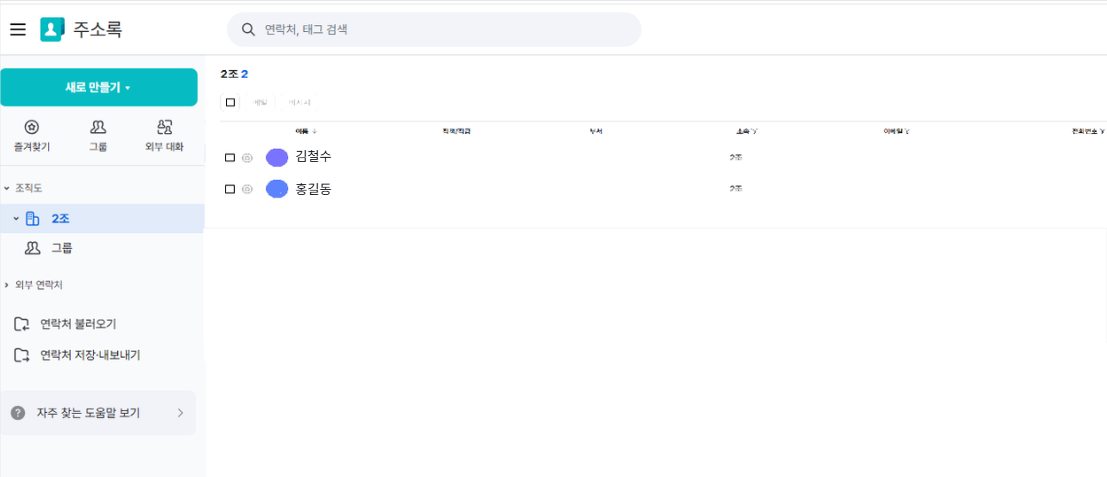
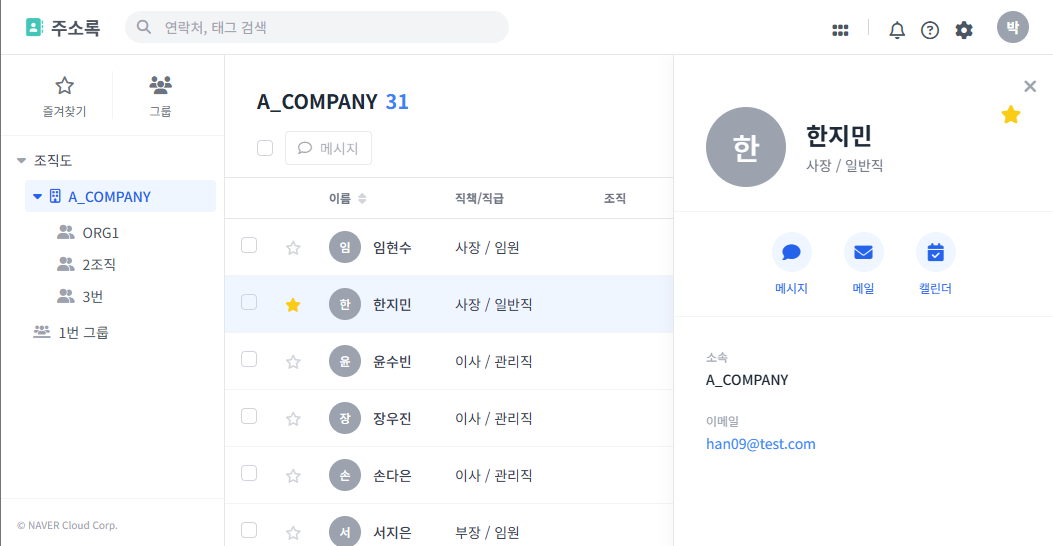
필요없는 이미지 삭제 및 변경, 주소록 수정, 인터셉터 수정

diff --git a/src/main/resources/templates/user/addressBook.html b/src/main/resources/templates/user/addressBook.html
@@ -169,10 +169,6 @@
                 </table>
             </div>
 
-            <!-- Pagination (추후 백엔드 페이징 객체와 연동 필요) -->
-            <div class="border-t border-gray-200 py-4 flex justify-center bg-white">
-                <button class="w-7 h-7 rounded-full bg-gray-700 text-white flex items-center justify-center text-xs">1</button>
-            </div>
         </main>
 
         <!-- Right Side Panel (Detail View) -->

diff --git a/target/classes/templates/user/addressBook.html b/target/classes/templates/user/addressBook.html
@@ -169,10 +169,6 @@
                 </table>
             </div>
 
-            <!-- Pagination (추후 백엔드 페이징 객체와 연동 필요) -->
-            <div class="border-t border-gray-200 py-4 flex justify-center bg-white">
-                <button class="w-7 h-7 rounded-full bg-gray-700 text-white flex items-center justify-center text-xs">1</button>
-            </div>
         </main>
 
         <!-- Right Side Panel (Detail View) -->

diff --git a/src/main/java/kr/co/sist/WebConfig.java b/src/main/java/kr/co/sist/WebConfig.java
@@ -1,10 +1,6 @@
 package kr.co.sist;
 
-import org.springframework.context.annotation.Bean;
 import org.springframework.context.annotation.Configuration;
-import org.springframework.security.crypto.bcrypt.BCryptPasswordEncoder;
-import org.springframework.security.crypto.password.PasswordEncoder;
-
 import org.springframework.web.servlet.config.annotation.InterceptorRegistry;
 import org.springframework.web.servlet.config.annotation.ResourceHandlerRegistry;
 import org.springframework.web.servlet.config.annotation.WebMvcConfigurer;
@@ -12,6 +8,7 @@ import org.springframework.web.servlet.config.annotation.WebMvcConfigurer;
 import kr.co.sist.audit.Audit2FAInterceptor;
 import kr.co.sist.login.LoginInterceptor;
 import kr.co.sist.security.RoleLevelInterceptor;
+import kr.co.sist.sysadmin.AdminSessionInterceptor;
 import lombok.RequiredArgsConstructor;
 
 @Configuration
@@ -21,6 +18,7 @@ public class WebConfig implements WebMvcConfigurer{
 	private final LoginInterceptor loginInterceptor;
 	private final Audit2FAInterceptor audit2FAInterceptor;
 	private final RoleLevelInterceptor roleLevelInterceptor;
+	  private final AdminSessionInterceptor adminSessionInterceptor;
 
 	/**
 	 * 정적 리소스 매핑
@@ -42,6 +40,7 @@ public class WebConfig implements WebMvcConfigurer{
                .addPathPatterns("/**")
                .excludePathPatterns(
                    "/",
+                   "/admin/**",
                    "/login",
                    "/works/login/**",
                    "/loginProcess",
@@ -75,5 +74,9 @@ public class WebConfig implements WebMvcConfigurer{
                    "/adminUser/audit/todoAudit",
                    "/adminUser/audit/addrAudit"
                );
+       // 시스템관리자
+       registry.addInterceptor(adminSessionInterceptor)
+                  .addPathPatterns("/admin/**")
+                  .excludePathPatterns("/admin/login");
    }
 }

diff --git a/src/main/java/kr/co/sist/sysadmin/AdminSessionInterceptor.java b/src/main/java/kr/co/sist/sysadmin/AdminSessionInterceptor.java
@@ -29,7 +29,8 @@ public class AdminSessionInterceptor implements HandlerInterceptor {
 		Object sysAdminId = session.getAttribute("sysAdminId");
 
 		if (sysAdminId == null) {
-			response.sendRedirect(request.getContextPath() + "/admin/login");
+			//response.sendRedirect(request.getContextPath() + "/admin/login");
+			response.sendRedirect("/admin/login");
 			return false;
 		}
 		return true;
